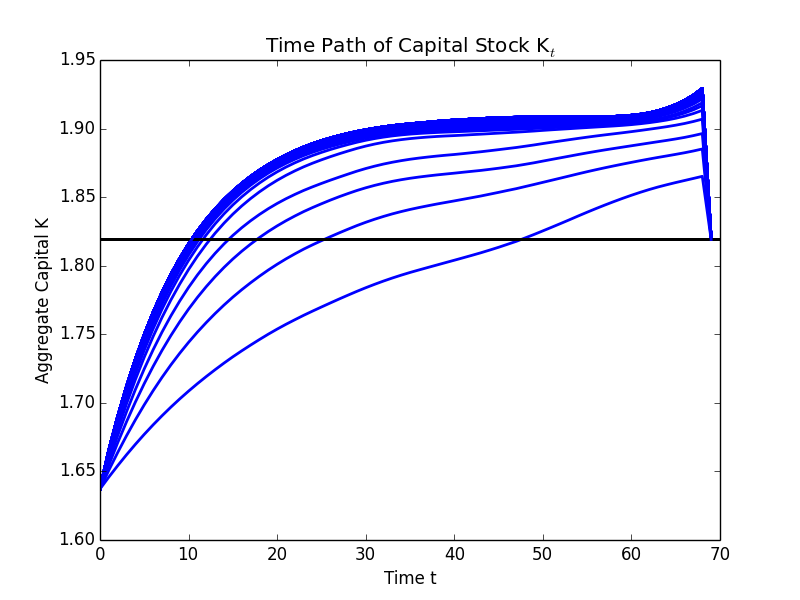
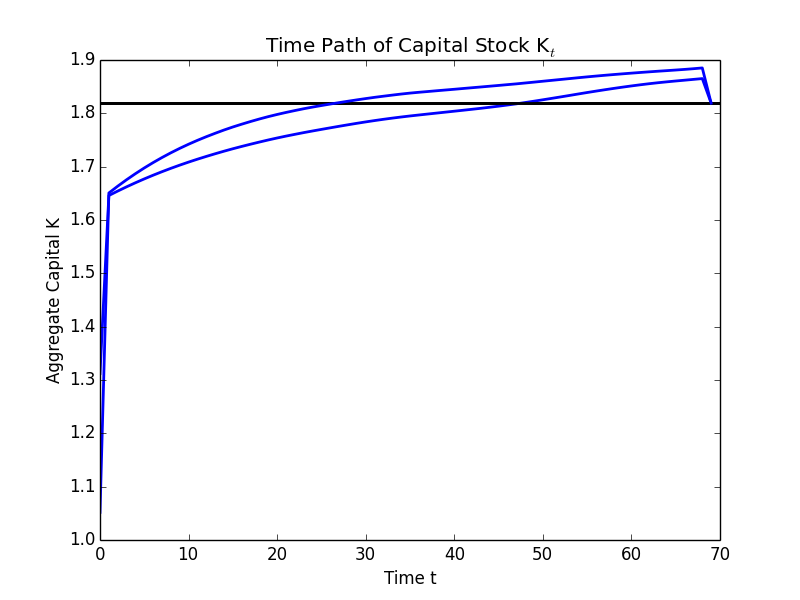
OLG

diff --git a/Python/olg_endo_lab/TPI.py b/Python/olg_endo_lab/TPI.py
@@ -349,7 +349,7 @@ while (TPIiter < TPImaxiter) and (TPIdist >= TPImindist):
             N_vec = solutions[S-1:]
             N_mat[t:t+S, :, j] += np.diag(N_vec)
 
-    K_mat[0, :, :] = initial_K
+    K_mat[0, -1, :] = initial_K[-1,:]
     K_mat[T-1, :, :] = Kssmat.reshape(S-1, J)
     N_mat[0, :, :] = initial_N
     N_mat[T-1, :, :] = Nssmat.reshape(S, J)
